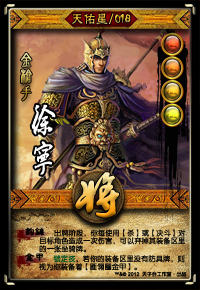
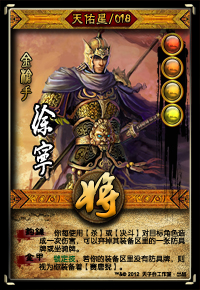
更新徐宁，家书AI错误修正（askforsuit）
8.鸣谢的信息（按照我给你的卡牌修改那个文档里的鸣谢改下）。

Changed region(s): [[0.18, 0.7759, 0.93, 0.869], [0.45, 0.9, 0.69, 0.931]]

diff --git a/sanguosha.ts b/sanguosha.ts
@@ -2252,37 +2252,37 @@
     <message>
         <location filename="src/dialog/mainwindow.cpp" line="619"/>
         <source>Shuihusha staff:</source>
-        <translation>水浒杀制作团队：</translation>
+        <translation>太阳神水浒杀制作团队：</translation>
     </message>
     <message>
         <location filename="src/dialog/mainwindow.cpp" line="621"/>
         <source>Design/Plan/Art: Nicholas</source>
-        <translation>设计/策划/美工：烨子</translation>
+        <translation>设计/策划：烨子风暴</translation>
     </message>
     <message>
         <location filename="src/dialog/mainwindow.cpp" line="622"/>
         <source>Coder: Ubun Tenkei, Roxiel</source>
-        <translation>主程序：宇文天启</translation>
+        <translation>程序设计：宇文天启/战栗贵公子/皇叔/roxiel</translation>
     </message>
     <message>
         <location filename="src/dialog/mainwindow.cpp" line="623"/>
         <source>Voice: Tianzihui Club</source>
-        <translation>配音：天子会配音小组</translation>
+        <translation>美工：烨子风暴/绿豆沙</translation>
     </message>
     <message>
         <location filename="src/dialog/mainwindow.cpp" line="624"/>
         <source>Chores: LTY</source>
-        <translation>杂务：凌天翼</translation>
+        <translation>监制/文案：凌天翼/大R</translation>
     </message>
     <message>
         <location filename="src/dialog/mainwindow.cpp" line="625"/>
         <source>QQ Group: 88873329</source>
-        <translation>QQ群：88873329</translation>
+        <translation>配音：（详见武将一览）</translation>
     </message>
     <message>
         <location filename="src/dialog/mainwindow.cpp" line="626"/>
         <source>Url: shuihusha.5d6d.com</source>
-        <translation>论坛：shuihusha.5d6d.com</translation>
+        <translation>出品：天子会工作室</translation>
     </message>
     <message>
         <location filename="src/dialog/mainwindow.cpp" line="635"/>

diff --git a/src/package/standard-generals.cpp b/src/package/standard-generals.cpp
@@ -274,6 +274,9 @@ bool HuaceCard::targetFilter(const QList<const Player *> &targets, const Player 
 }
 
 bool HuaceCard::targetFixed() const{
+    if(ClientInstance->getStatus() == Client::Responsing)
+        return true;
+
     CardStar card = Self->tag["Huace"].value<CardStar>();
     return card && card->targetFixed();
 }
@@ -295,6 +298,23 @@ const Card *HuaceCard::validate(const CardUseStruct *card_use) const{
     return use_card;
 }
 
+const Card *HuaceCard::validateInResposing(ServerPlayer *player, bool *continuable) const{
+    *continuable = true;
+    Room *room = player->getRoom();
+    QString string;
+    if(user_string == "nulliplot")
+        string = room->askForChoice(player, "huace-nullchoice", "nullification+counterplot");
+    else
+        string = "nullification";
+    const Card *card = Sanguosha->getCard(subcards.first());
+    Card *use_card = Sanguosha->cloneCard(string, card->getSuit(), card->getNumber());
+    use_card->setSkillName("huace");
+    use_card->addSubcard(card);
+    room->throwCard(this);
+
+    return use_card;
+}
+
 class Huace:public OneCardViewAsSkill{
 public:
     Huace():OneCardViewAsSkill("huace"){
@@ -304,12 +324,26 @@ public:
         return !player->hasUsed("HuaceCard");
     }
 
+    virtual bool isEnabledAtResponse(const Player *player, const QString &pattern) const{
+        return (pattern == "nullification" || pattern == "nulliplot") &&
+                !player->hasUsed("HuaceCard") &&
+                !player->isKongcheng() &&
+                player->getPhase() == Player::Play;
+    }
+
     virtual bool viewFilter(const CardItem *to_select) const{
         const Card *card = to_select->getCard();
         return card->inherits("TrickCard");
     }
 
     virtual const Card *viewAs(CardItem *card_item) const{
+        if(ClientInstance->getStatus() == Client::Responsing){
+            HuaceCard *card = new HuaceCard;
+            card->setUserString(ClientInstance->getPattern());
+            card->addSubcard(card_item->getFilteredCard());
+            return card;
+        }
+
         CardStar c = Self->tag["Huace"].value<CardStar>();
         if(c){
             HuaceCard *card = new HuaceCard;
@@ -1248,6 +1282,8 @@ public:
             return false;
 
         QStringList horses;
+        if(damage.to->getArmor())
+            horses << "armor";
         if(damage.to->getDefensiveHorse())
             horses << "defensive_horse";
         if(damage.to->getOffensiveHorse())
@@ -1262,7 +1298,7 @@ public:
         room->playSkillEffect(objectName());
 
         QString horse_type;
-        if(horses.length() == 2)
+        if(horses.length() > 1)
             horse_type = room->askForChoice(player, objectName(), horses.join("+"));
         else
             horse_type = horses.first();
@@ -1271,6 +1307,8 @@ public:
             room->throwCard(damage.to->getDefensiveHorse(), damage.to);
         else if(horse_type == "offensive_horse")
             room->throwCard(damage.to->getOffensiveHorse(), damage.to);
+        else if(horse_type == "armor")
+            room->throwCard(damage.to->getArmor(), damage.to);
 
         return false;
     }

diff --git a/src/server/serverplayer.cpp b/src/server/serverplayer.cpp
@@ -441,6 +441,12 @@ DummyCard *ServerPlayer::wholeHandCards() const{
 }
 
 bool ServerPlayer::hasNullification(bool include_counterplot) const{
+    if(hasSkill("huace") && getPhase() == Player::Play && !hasUsed("HuaceCard")){
+        foreach(const Card *card, getHandcards()){
+            if(card->inherits("TrickCard"))
+                return true;
+        }
+    }
     foreach(const Card *card, handcards){
         if(include_counterplot && card->inherits("Nullification"))
             return true; // all trick

diff --git a/src/package/standard-generals.h b/src/package/standard-generals.h
@@ -46,6 +46,7 @@ public:
     virtual bool targetsFeasible(const QList<const Player *> &targets, const Player *Self) const;
 
     virtual const Card *validate(const CardUseStruct *card_use) const;
+    virtual const Card *validateInResposing(ServerPlayer *player, bool *continuable) const;
 };
 
 class HuaceDialog: public QDialog{
